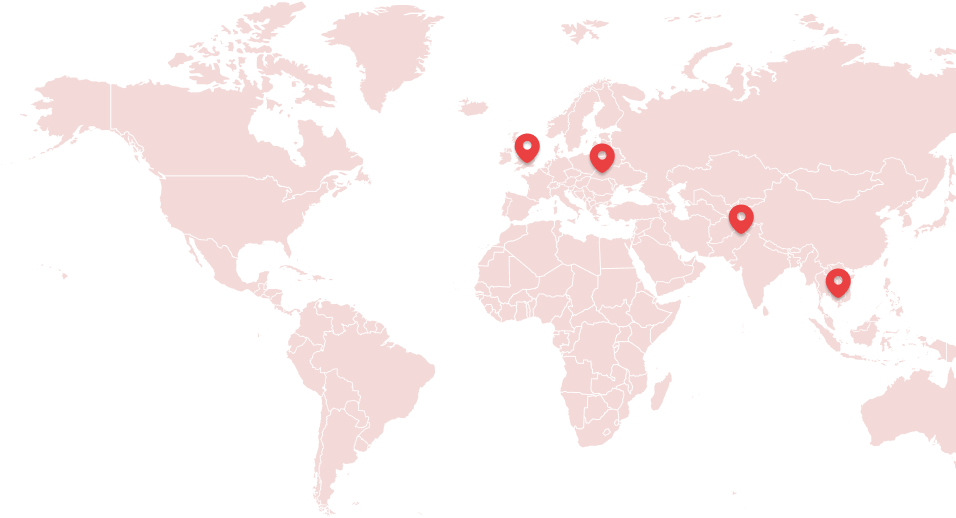
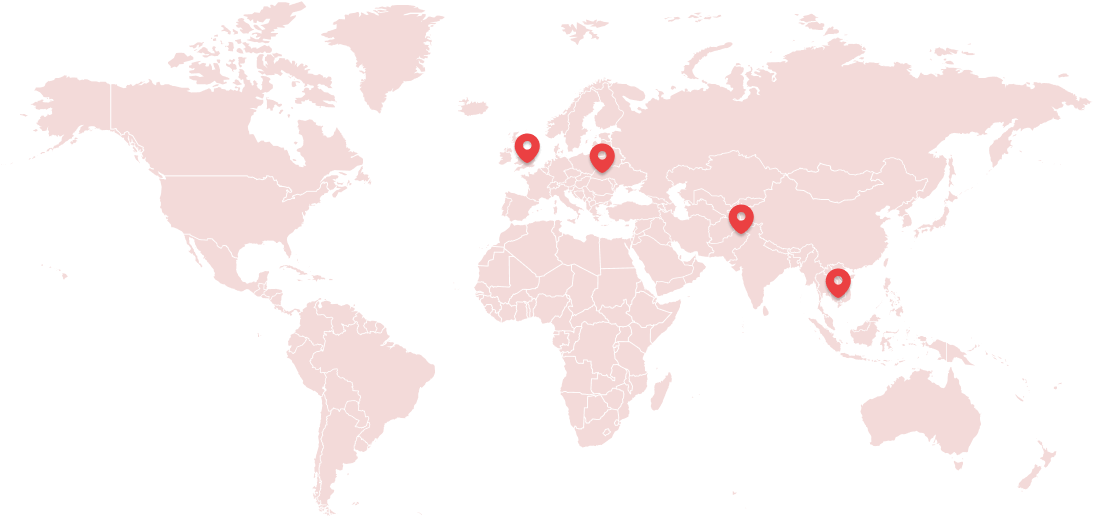
updated images

diff --git a/assets/css/general.css b/assets/css/general.css
@@ -298,7 +298,7 @@ textarea.form-control{
 
 .locations-map{
   position: absolute;
-  right: -100px;
+  right: -150px;
   width: 900px;
   top: 0;
 }
@@ -547,13 +547,13 @@ Note: Selecting the 2nd last item then-->> 4th grid item is ending at the 4th co
 
 
 
-/* .techs-stacks img{
+.techs-stacks img{
   filter: grayscale(100%);
   cursor: pointer;
 }
 .techs-stacks img:hover{
   filter: grayscale(0%);
-} */
+}
 
 
 .error{
